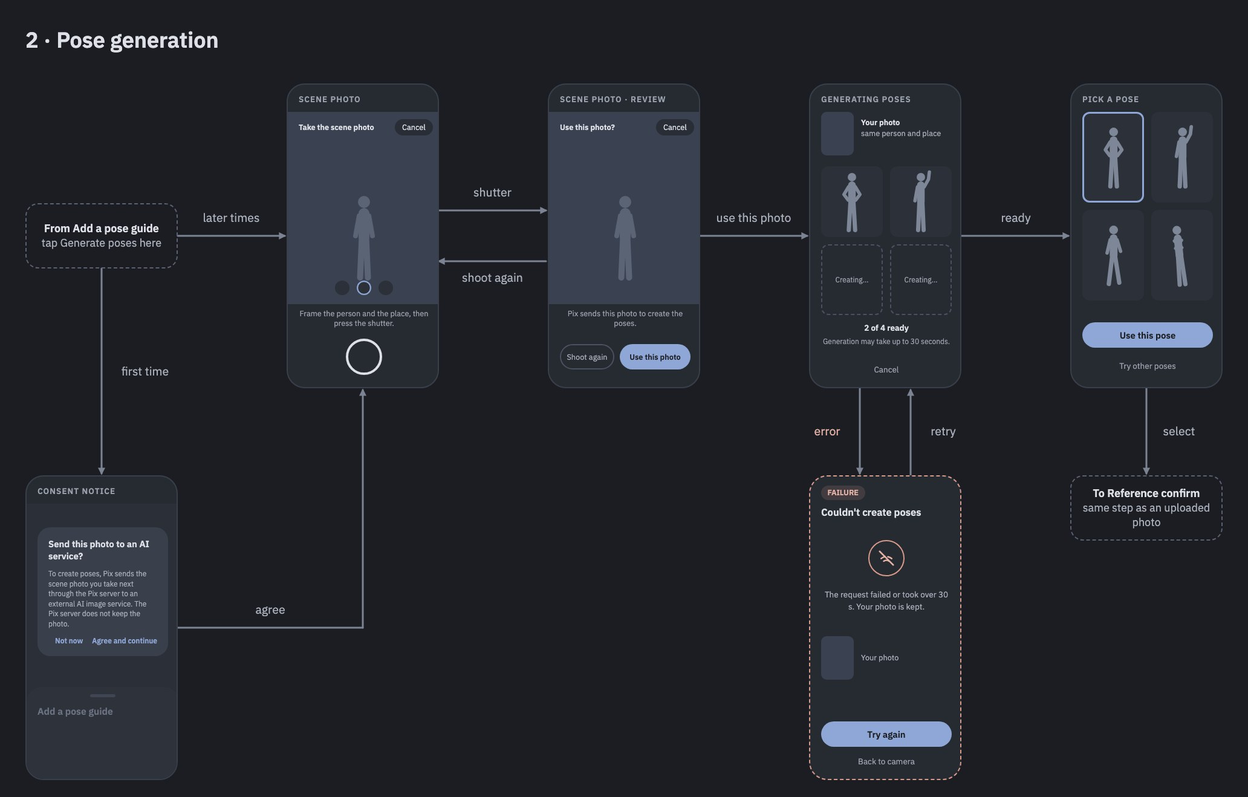
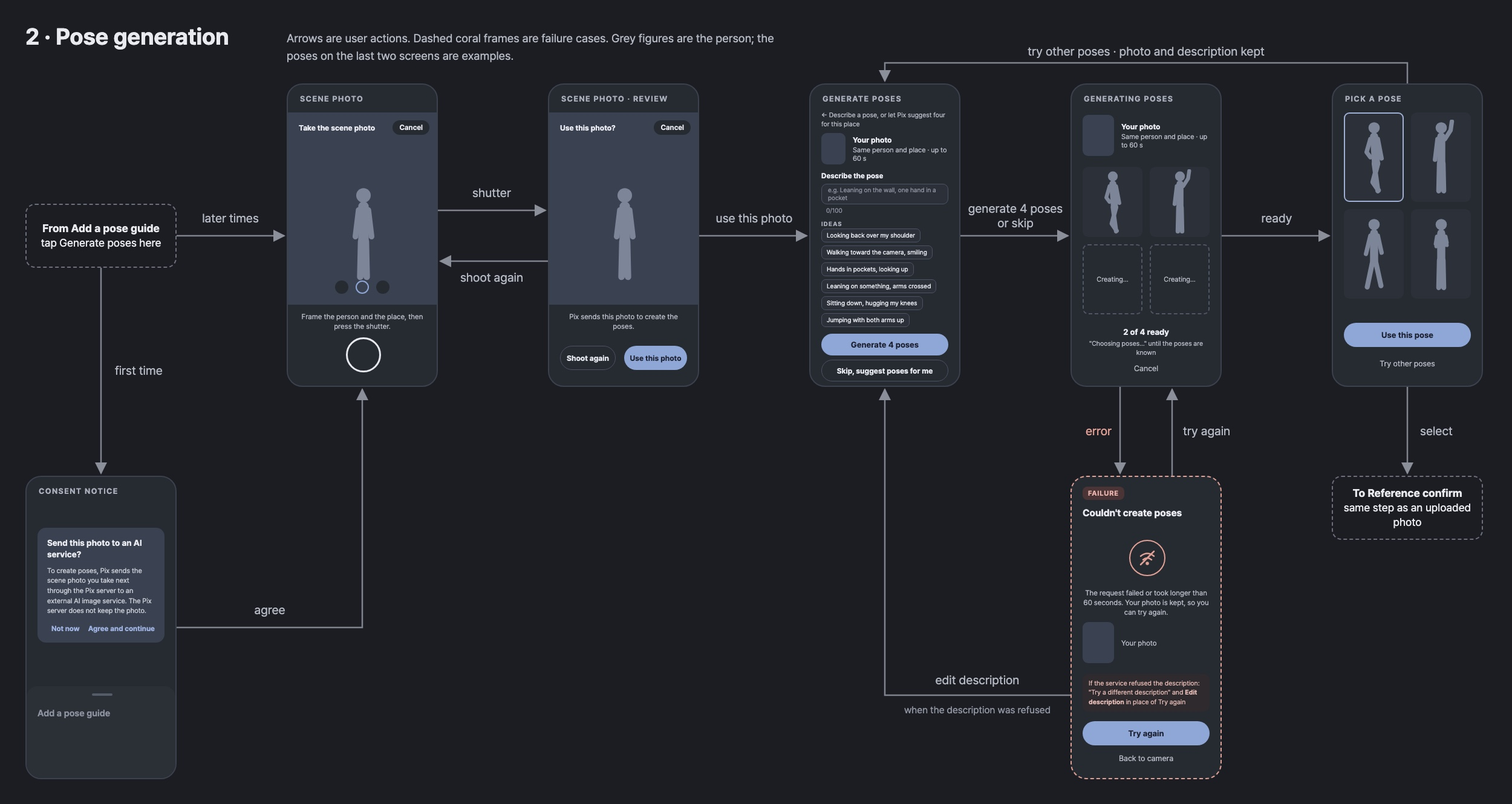
docs: redraw the Flow 2 wireframe with Generate poses (#53)
Figure 2 now has the Generate poses screen between Scene photo · Review
and Generating poses, the 60 s texts, Try other poses and Edit
description going back to Generate poses, and the refused-description
case on Couldn't create poses. The drawing is now kept as HTML in
wiki/images/flow2_pose_generation.html, rendered to the JPEG the page
uses, so it can be changed without redrawing it. Generate poses leaves
the screens still to be drawn (6.8).

diff --git a/wiki/images/flow2_pose_generation.html b/wiki/images/flow2_pose_generation.html
@@ -1,0 +1,269 @@
+<!DOCTYPE html>
+<html lang="en">
+<head>
+<meta charset="utf-8">
+<title>Pix · Wireflow 2: pose generation</title>
+<!--
+  Source of Figure 2 in the Requirements and Specifications (wiki/Requirements-and-Specifications.md, 6.3). The caption
+  and the screen table are in that page; this file holds only the drawing, on a 2500 × 1330 canvas.
+
+  To change the figure: edit this file, then render it over the image the page uses, for example on macOS:
+    "/Applications/Google Chrome.app/Contents/MacOS/Google Chrome" --headless=new --hide-scrollbars \
+      --force-device-scale-factor=1 --window-size=2500,1330 --screenshot=/tmp/flow2.png flow2_pose_generation.html
+    sips -s format jpeg -s formatOptions 92 /tmp/flow2.png --out flow2_pose_generation.jpg
+-->
+<style>
+  * { box-sizing: border-box; }
+  body { margin: 0; background: #1c1d22; }
+  .canvas { position: relative; width: 2500px; height: 1330px; background: #1c1d22; color: #e8eaf0; overflow: hidden;
+    font-family: "Pretendard", "IBM Plex Sans", "Helvetica Neue", Arial, sans-serif; }
+  .title { position: absolute; left: 42px; top: 38px; font-size: 38px; font-weight: 700; letter-spacing: -0.3px; }
+  .legend { position: absolute; left: 474px; top: 50px; width: 860px; font-size: 19px; line-height: 1.5; color: #b3b8c2; }
+
+  .phone { position: absolute; top: 138px; width: 250px; height: 502px; background: #262b31; border: 2px solid #3b414d;
+    border-radius: 26px; overflow: hidden; }
+  .phone.low { top: 787px; }
+  .phone.failure { border: 2px dashed #e3a196; }
+  .label { position: absolute; left: 20px; top: 16px; font-size: 13px; font-weight: 700; letter-spacing: 1.4px;
+    color: #a9afbb; }
+  .cam { position: absolute; left: 0; right: 0; top: 46px; height: 318px; background: #3a4151; }
+  .topbar { position: absolute; left: 18px; right: 12px; top: 13px; display: flex; justify-content: space-between;
+    align-items: center; font-size: 12.5px; font-weight: 700; }
+  .pill { background: #262b31; border-radius: 14px; padding: 5px 11px; font-size: 12px; font-weight: 600; }
+  .note { position: absolute; left: 18px; right: 18px; text-align: center; font-size: 12px; line-height: 1.35;
+    color: #b6bbc5; }
+  .btn { position: absolute; left: 18px; right: 18px; height: 40px; border-radius: 21px; display: flex;
+    align-items: center; justify-content: center; font-size: 13.5px; font-weight: 700; }
+  .btn.accent { background: #8fa7d7; color: #1c2030; }
+  .btn.outline { border: 1.5px solid #4c5363; color: #e3e6ec; }
+  .link { position: absolute; left: 0; right: 0; text-align: center; font-size: 13px; color: #b6bbc5; }
+  .shutter { position: absolute; left: 96px; top: 418px; width: 58px; height: 58px; border: 3px solid #e8eaf0;
+    border-radius: 50%; }
+  .dots { position: absolute; left: 0; right: 0; top: 330px; display: flex; justify-content: center; gap: 12px; }
+  .dots i { width: 22px; height: 22px; border-radius: 50%; background: #262b31; display: block; }
+  .dots i.on { background: transparent; border: 2.5px solid #8fa7d7; }
+  .figure { position: absolute; }
+
+  .photo-row { position: absolute; left: 18px; right: 18px; display: flex; align-items: center; gap: 12px; }
+  .thumb { width: 52px; height: 68px; border-radius: 9px; background: #3a4151; flex: none; }
+  .photo-row b { display: block; font-size: 12.5px; }
+  .photo-row span { display: block; font-size: 11.5px; color: #b6bbc5; margin-top: 2px; }
+  .slots { position: absolute; left: 18px; right: 18px; display: grid; grid-template-columns: 1fr 1fr; gap: 12px; }
+  .slot { height: 116px; border-radius: 9px; background: #2c3039; display: flex; align-items: center;
+    justify-content: center; font-size: 11.5px; color: #b6bbc5; }
+  .slot.creating { background: transparent; border: 2px dashed #4f5664; }
+  .slot.selected { outline: 2.5px solid #9fb0d4; outline-offset: -2.5px; }
+  .slots.pick .slot { height: 148px; }
+
+  .sub { position: absolute; left: 18px; right: 18px; font-size: 11px; line-height: 1.35; color: #b6bbc5; }
+  .field-label { position: absolute; left: 18px; font-size: 12px; font-weight: 700; }
+  .field { position: absolute; left: 18px; right: 18px; height: 34px; border-radius: 9px; border: 1.5px solid #4c5363;
+    background: #2c3039; font-size: 10.5px; color: #8d93a0; display: flex; align-items: center; padding: 0 10px; }
+  .counter { position: absolute; left: 26px; font-size: 10.5px; color: #8d93a0; }
+  .ideas-label { position: absolute; left: 18px; font-size: 10px; font-weight: 700; letter-spacing: 1.2px; color: #a9afbb; }
+  .chips { position: absolute; left: 18px; right: 18px; display: flex; flex-direction: column; align-items: flex-start;
+    gap: 5px; }
+  .chips span { font-size: 10.5px; border: 1.5px solid #4c5363; border-radius: 7px; padding: 4px 8px; background: #2c3039; }
+
+  .badge { position: absolute; left: 18px; top: 16px; background: #4a3436; color: #e9b3ab; font-size: 11.5px;
+    font-weight: 700; letter-spacing: 0.8px; border-radius: 8px; padding: 4px 9px; }
+  .fail-title { position: absolute; left: 18px; top: 50px; font-size: 16px; font-weight: 700; }
+  .fail-icon { position: absolute; left: 95px; top: 104px; width: 60px; height: 60px; border: 2.5px solid #e3a196;
+    border-radius: 50%; }
+  .refused { position: absolute; left: 18px; right: 18px; border-radius: 9px; background: #2f2a2e; color: #e2b9b2;
+    font-size: 11px; line-height: 1.4; padding: 8px 10px; }
+
+  .dialog { position: absolute; left: 18px; right: 18px; top: 84px; border-radius: 14px; background: #3a4151;
+    padding: 16px; }
+  .dialog b { display: block; font-size: 14px; line-height: 1.35; }
+  .dialog p { margin: 9px 0 14px; font-size: 11.5px; line-height: 1.45; color: #c7cbd4; }
+  .dialog .actions { display: flex; justify-content: flex-end; gap: 14px; font-size: 12px; font-weight: 700;
+    color: #9fb4e2; }
+  .sheet { position: absolute; left: 0; right: 0; bottom: 0; height: 152px; background: #2b3037;
+    border-top-left-radius: 18px; border-top-right-radius: 18px; }
+  .sheet i { position: absolute; left: 108px; top: 12px; width: 34px; height: 4px; border-radius: 2px; background: #555c69; }
+  .sheet span { position: absolute; left: 18px; top: 36px; font-size: 15px; color: #8d93a0; font-weight: 600; }
+
+  .box { position: absolute; width: 250px; border: 2px dashed #6b707c; border-radius: 16px; display: flex;
+    flex-direction: column; align-items: center; justify-content: center; text-align: center; font-size: 18px;
+    line-height: 1.35; color: #e8eaf0; padding: 12px; }
+  .box b { font-weight: 700; }
+  svg.arrows { position: absolute; left: 0; top: 0; }
+  svg.arrows text { font-size: 20px; fill: #b3b8c2; font-family: inherit; }
+  svg.arrows text.error { fill: #e3a196; }
+  svg.arrows text.small { font-size: 16px; fill: #8f95a1; }
+</style>
+</head>
+<body>
+<!-- Figures: grey people in the poses of the drawing, reused with <use>. -->
+<svg width="0" height="0" style="position:absolute">
+  <defs>
+    <g id="head"><circle cx="30" cy="13" r="9" fill="#7d8699"/></g>
+    <symbol id="fig-stand" viewBox="0 0 60 120"><use href="#head"/>
+      <g stroke="#7d8699" stroke-linecap="round" fill="none"><path d="M30 27 V70" stroke-width="13"/>
+      <path d="M24 31 L20 64 M36 31 L40 64" stroke-width="7"/><path d="M27 70 L26 114 M33 70 L34 114" stroke-width="8"/></g></symbol>
+    <symbol id="fig-hips" viewBox="0 0 60 120"><use href="#head"/>
+      <g stroke="#7d8699" stroke-linecap="round" stroke-linejoin="round" fill="none"><path d="M30 27 V70" stroke-width="13"/>
+      <path d="M24 31 L14 47 L25 60 M36 31 L46 47 L35 60" stroke-width="7"/><path d="M27 70 L26 114 M33 70 L34 114" stroke-width="8"/></g></symbol>
+    <symbol id="fig-wave" viewBox="0 0 60 120"><use href="#head"/>
+      <g stroke="#7d8699" stroke-linecap="round" stroke-linejoin="round" fill="none"><path d="M30 27 V70" stroke-width="13"/>
+      <path d="M24 31 L20 64 M36 31 L45 17 L47 3" stroke-width="7"/><path d="M27 70 L26 114 M33 70 L34 114" stroke-width="8"/></g></symbol>
+    <symbol id="fig-walk" viewBox="0 0 60 120"><use href="#head"/>
+      <g stroke="#7d8699" stroke-linecap="round" stroke-linejoin="round" fill="none"><path d="M30 27 V70" stroke-width="13"/>
+      <path d="M24 31 L17 60 M36 31 L42 58" stroke-width="7"/><path d="M28 70 L19 113 M32 70 L41 111" stroke-width="8"/></g></symbol>
+    <symbol id="fig-cross" viewBox="0 0 60 120"><use href="#head"/>
+      <g stroke="#7d8699" stroke-linecap="round" stroke-linejoin="round" fill="none"><path d="M30 27 V70" stroke-width="13"/>
+      <path d="M23 32 L21 44 L39 46 M37 32 L39 42 L22 48" stroke-width="6"/><path d="M27 70 L26 114 M33 70 L34 114" stroke-width="8"/></g></symbol>
+    <symbol id="fig-lean" viewBox="0 0 60 120"><use href="#head"/>
+      <g stroke="#7d8699" stroke-linecap="round" stroke-linejoin="round" fill="none"><path d="M30 27 L33 70" stroke-width="13"/>
+      <path d="M24 31 L18 52 L24 60 M36 31 L42 62" stroke-width="7"/><path d="M30 70 L36 114 M36 70 L28 100 L37 113" stroke-width="8"/></g></symbol>
+  </defs>
+</svg>
+
+<div class="canvas">
+  <div class="title">2 · Pose generation</div>
+  <div class="legend">Arrows are user actions. Dashed coral frames are failure cases. Grey figures are the person; the
+    poses on the last two screens are examples.</div>
+
+  <!-- Entry -->
+  <div class="box" style="left:42px; top:337px; height:106px"><b>From Add a pose guide</b>tap Generate poses here</div>
+
+  <!-- Scene photo -->
+  <div class="phone" style="left:474px">
+    <div class="label">SCENE PHOTO</div>
+    <div class="cam">
+      <div class="topbar"><span>Take the scene photo</span><span class="pill">Cancel</span></div>
+      <svg class="figure" style="left:85px; top:120px" width="80" height="160"><use href="#fig-stand"/></svg>
+      <div class="dots" style="top:278px"><i></i><i class="on"></i><i></i></div>
+    </div>
+    <div class="note" style="top:376px">Frame the person and the place, then press the shutter.</div>
+    <div class="shutter"></div>
+  </div>
+
+  <!-- Scene photo · Review -->
+  <div class="phone" style="left:906px">
+    <div class="label">SCENE PHOTO · REVIEW</div>
+    <div class="cam">
+      <div class="topbar"><span>Use this photo?</span><span class="pill">Cancel</span></div>
+      <svg class="figure" style="left:85px; top:120px" width="80" height="160"><use href="#fig-stand"/></svg>
+    </div>
+    <div class="note" style="top:376px">Pix sends this photo to create the poses.</div>
+    <div class="btn outline" style="top:432px; right:136px; height:40px; font-size:12.5px">Shoot again</div>
+    <div class="btn accent" style="top:432px; left:124px; font-size:12.5px">Use this photo</div>
+  </div>
+
+  <!-- Generate poses (It 2) -->
+  <div class="phone" style="left:1338px">
+    <div class="label">GENERATE POSES</div>
+    <div class="sub" style="top:44px">← Describe a pose, or let Pix suggest four for this place</div>
+    <div class="photo-row" style="top:80px"><div class="thumb" style="width:40px; height:52px"></div>
+      <div><b>Your photo</b><span>Same person and place · up to 60 s</span></div></div>
+    <div class="field-label" style="top:144px">Describe the pose</div>
+    <div class="field" style="top:164px">e.g. Leaning on the wall, one hand in a pocket</div>
+    <div class="counter" style="top:202px">0/100</div>
+    <div class="ideas-label" style="top:224px">IDEAS</div>
+    <div class="chips" style="top:238px">
+      <span>Looking back over my shoulder</span><span>Walking toward the camera, smiling</span>
+      <span>Hands in pockets, looking up</span><span>Leaning on something, arms crossed</span>
+      <span>Sitting down, hugging my knees</span><span>Jumping with both arms up</span>
+    </div>
+    <div class="btn accent" style="top:412px; height:36px">Generate 4 poses</div>
+    <div class="btn outline" style="top:455px; height:36px; font-size:12.5px">Skip, suggest poses for me</div>
+  </div>
+
+  <!-- Generating poses -->
+  <div class="phone" style="left:1770px">
+    <div class="label">GENERATING POSES</div>
+    <div class="photo-row" style="top:50px"><div class="thumb"></div>
+      <div><b>Your photo</b><span>Same person and place · up to 60 s</span></div></div>
+    <div class="slots" style="top:136px">
+      <div class="slot"><svg width="54" height="108"><use href="#fig-lean"/></svg></div>
+      <div class="slot"><svg width="54" height="108"><use href="#fig-wave"/></svg></div>
+      <div class="slot creating">Creating…</div>
+      <div class="slot creating">Creating…</div>
+    </div>
+    <div class="note" style="top:400px; font-size:13.5px; font-weight:700; color:#e8eaf0">2 of 4 ready</div>
+    <div class="note" style="top:422px; font-size:11px">"Choosing poses…" until the poses are known</div>
+    <div class="link" style="top:462px">Cancel</div>
+  </div>
+
+  <!-- Pick a pose -->
+  <div class="phone" style="left:2202px">
+    <div class="label">PICK A POSE</div>
+    <div class="slots pick" style="top:46px">
+      <div class="slot selected"><svg width="62" height="124"><use href="#fig-lean"/></svg></div>
+      <div class="slot"><svg width="62" height="124"><use href="#fig-wave"/></svg></div>
+      <div class="slot"><svg width="62" height="124"><use href="#fig-walk"/></svg></div>
+      <div class="slot"><svg width="62" height="124"><use href="#fig-cross"/></svg></div>
+    </div>
+    <div class="btn accent" style="top:394px">Use this pose</div>
+    <div class="link" style="top:454px">Try other poses</div>
+  </div>
+
+  <!-- Consent notice -->
+  <div class="phone low" style="left:42px">
+    <div class="label">CONSENT NOTICE</div>
+    <div class="dialog"><b>Send this photo to an AI service?</b>
+      <p>To create poses, Pix sends the scene photo you take next through the Pix server to an external AI image
+        service. The Pix server does not keep the photo.</p>
+      <div class="actions"><span>Not now</span><span>Agree and continue</span></div></div>
+    <div class="sheet"><i></i><span>Add a pose guide</span></div>
+  </div>
+
+  <!-- Couldn't create poses -->
+  <div class="phone low failure" style="left:1770px">
+    <div class="badge">FAILURE</div>
+    <div class="fail-title">Couldn't create poses</div>
+    <div class="fail-icon"><svg width="56" height="56" viewBox="0 0 56 56"><g stroke="#e3a196" stroke-width="2.5"
+      stroke-linecap="round" fill="none"><path d="M17 25 Q28 16 39 25 M21 31 Q28 25 35 31"/><path d="M17 39 L39 17"/>
+      <circle cx="28" cy="37" r="1.5" fill="#e3a196"/></g></svg></div>
+    <div class="note" style="top:184px">The request failed or took longer than 60 seconds. Your photo is kept, so you
+      can try again.</div>
+    <div class="photo-row" style="top:240px"><div class="thumb"></div><div><span style="font-size:12px">Your photo</span></div></div>
+    <div class="refused" style="top:326px">If the service refused the description: "Try a different description" and
+      <b>Edit description</b> in place of Try again</div>
+    <div class="btn accent" style="top:404px">Try again</div>
+    <div class="link" style="top:458px">Back to camera</div>
+  </div>
+
+  <!-- To Reference confirm -->
+  <div class="box" style="left:2202px; top:787px; height:106px"><b>To Reference confirm</b>same step as an uploaded photo</div>
+
+  <!-- Arrows -->
+  <svg class="arrows" width="2500" height="1330" viewBox="0 0 2500 1330">
+    <defs><marker id="ah" viewBox="0 0 10 10" refX="9" refY="5" markerWidth="8" markerHeight="8" orient="auto-start-reverse">
+      <path d="M0,0 L10,5 L0,10 z" fill="#8a8f9a"/></marker></defs>
+    <g stroke="#7f848f" stroke-width="2.5" fill="none" marker-end="url(#ah)">
+      <path d="M292 390 H470"/>
+      <path d="M167 443 V783"/>
+      <path d="M292 1038 H599 V644"/>
+      <path d="M724 348 H902"/>
+      <path d="M906 432 H728"/>
+      <path d="M1156 390 H1334"/>
+      <path d="M1588 390 H1766"/>
+      <path d="M2020 390 H2198"/>
+      <path d="M1852 640 V783"/>
+      <path d="M1938 787 V644"/>
+      <path d="M1770 1150 H1463 V644"/>
+      <path d="M2327 138 V104 H1463 V134"/>
+      <path d="M2327 640 V783"/>
+    </g>
+    <text x="381" y="368" text-anchor="middle">later times</text>
+    <text x="190" y="620">first time</text>
+    <text x="446" y="1016" text-anchor="middle">agree</text>
+    <text x="813" y="326" text-anchor="middle">shutter</text>
+    <text x="813" y="466" text-anchor="middle">shoot again</text>
+    <text x="1247" y="368" text-anchor="middle">use this photo</text>
+    <text x="1679" y="352" text-anchor="middle">generate 4 poses</text>
+    <text x="1679" y="376" text-anchor="middle">or skip</text>
+    <text x="2111" y="368" text-anchor="middle">ready</text>
+    <text x="1838" y="720" text-anchor="end" class="error">error</text>
+    <text x="1956" y="720">try again</text>
+    <text x="1616" y="1132" text-anchor="middle">edit description</text>
+    <text x="1616" y="1180" text-anchor="middle" class="small">when the description was refused</text>
+    <text x="1895" y="92" text-anchor="middle">try other poses · photo and description kept</text>
+    <text x="2348" y="720">select</text>
+  </svg>
+</div>
+</body>
+</html>

diff --git a/wiki/Requirements-and-Specifications.md b/wiki/Requirements-and-Specifications.md
@@ -16,7 +16,7 @@
 | 1.3 | 2026-10-15 | Sign-up and sign-in with a Pix ID and a password, next to Google (decided 2026-10-15, Iter2-P8): FR-5.2 revised, with the original kept; the password rules (FR-5.11); adding Google to a password account (FR-5.12); a Google sign-in that no account uses asks whether the person already has a Pix account (FR-5.13); adding a password to a Google account (FR-5.14); US-6 gains four cases. There is no email and no password reset. NFR-15 adds a limit on wrong room codes per network address, and the assumptions a daily limit on poses over all users. 6.8 gains an *Account* screen to be drawn. NFR-13 adds the password hash to what the server stores, and NFR-14 says that passwords cross plain HTTP, that login attempts are not limited for now, and how the 15-minute access tokens and rotating refresh tokens work. F5, the Iteration 2 summary, the Friends screen, 6.8, and the assumptions follow. |
 | 1.4 | 2026-10-15 | Camera controls as built (Iter2-P10, #51). FR-1.13 says how each ratio is cut from the sensor. 6.2 places the flash and aspect-ratio buttons in the top bar and the brightness slider behind a button beside the zoom readout, and the last ratio is kept for the next time. |
 | 1.5 | 2026-10-16 | Guide controls as built (Iter2-P11, #52). FR-3.3 is revised, with the original kept: the size limits are 21–210 % of the frame height for every start, because the guide now starts at the person's size in the reference (FR-3.1). FR-3.6 and 6.2: there is no *Replace* button; *Guide* asks to replace a guide that is on the camera. FR-3.9 and 6.2: a tap on the reference thumbnail enlarges it and another tap makes it small, and a drag moves it to another corner. *Reference confirm* shows the outline on a dark neutral card (6.2). US-3 follows. |
-| 1.6 | 2026-10-21 | Poses without a description are suggested for the scene (Iter2-P12, #53). FR-4.4 is revised, with the original kept: without a description the Pix server suggests four poses for the scene, and the predefined poses are used only when it cannot. *Skip, use the preset poses* becomes *Skip, suggest poses for me* (FR-4.8, US-5, 6.3, 6.8), Generating poses says "Choosing poses…" until the suggested poses are known (6.3), and FR-4.8 says that the server's prompt may frame the person closer. *Try other poses* goes back to *Generate poses* with the scene photo and the description kept instead of requesting a new set at once (FR-4.6, revised with the original kept; US-4, 6.3). With a description, one candidate follows it as written and three follow variations of it that the Pix server writes for the scene, so the four differ (FR-4.8, US-5 revised with the original kept, 6.3). The glossary gains *Suggested pose* and *Pose variation*. Pose requests stop at 60 s instead of 30 s, while the targets of 20 s and 30 s stay (NFR-4, FR-4.5, FR-4.7, US-4, 6.3; revised with the originals kept). |
+| 1.6 | 2026-10-21 | Poses without a description are suggested for the scene (Iter2-P12, #53). FR-4.4 is revised, with the original kept: without a description the Pix server suggests four poses for the scene, and the predefined poses are used only when it cannot. *Skip, use the preset poses* becomes *Skip, suggest poses for me* (FR-4.8, US-5, 6.3, 6.8), Generating poses says "Choosing poses…" until the suggested poses are known (6.3), and FR-4.8 says that the server's prompt may frame the person closer. *Try other poses* goes back to *Generate poses* with the scene photo and the description kept instead of requesting a new set at once (FR-4.6, revised with the original kept; US-4, 6.3). With a description, one candidate follows it as written and three follow variations of it that the Pix server writes for the scene, so the four differ (FR-4.8, US-5 revised with the original kept, 6.3). The glossary gains *Suggested pose* and *Pose variation*. Pose requests stop at 60 s instead of 30 s, while the targets of 20 s and 30 s stay (NFR-4, FR-4.5, FR-4.7, US-4, 6.3; revised with the originals kept). Figure 2 now includes Generate poses, which leaves 6.8. |
 
 Items marked **TBD** need a team decision.
 
@@ -550,7 +550,7 @@ In the tables below, **Input → result** lists what the user can do on the scre
 
 ![Wireflow 2: pose generation](images/flow2_pose_generation.jpg)
 
-*Figure 2. Consent notice (the first time) → Scene photo → Scene photo · Review → Generating poses → Pick a pose → Reference confirm, with the "Couldn't create poses" failure. The Scene photo frame draws zoom as in Figure 1, before the zoom slider, and the Iteration 2 Generate poses screen, accepted on 2026-10-09, is not in the wireflow yet (6.8); the table below defines the current controls.*
+*Figure 2. Consent notice (the first time) → Scene photo → Scene photo · Review → Generate poses → Generating poses → Pick a pose → Reference confirm, with the "Couldn't create poses" failure. *Try other poses* goes back to Generate poses with the photo and the description kept, and so does *Edit description* when the service refused the description. The Scene photo frame draws zoom as in Figure 1, before the zoom slider (6.8); the table below defines the current controls. Redrawn on 2026-10-21 from `images/flow2_pose_generation.html`.*
 
 | Screen | Shows | Input → result | Not allowed / failure |
 |---|---|---|---|
@@ -624,7 +624,6 @@ These screens follow from the requirements above but are not yet in the wirefram
 | Invitation no longer available | Shown when an expired or cancelled invitation is opened. | FR-6.4 |
 | Camera and Subject view (update) | Draw the zoom slider and actual hardware endpoint labels in Flows 1, 2, 5, and 6; remove *Take photo* from Subject view; add the aspect-ratio control, brightness slider, and flash button; draw the outline-only guide, the reference thumbnail in its corners, *Hide* / *Show*, the replace prompt of *Add a pose guide*, and *Save guide*; the guide-edit mode toggle in place of the zoom slider (It 2). | FR-1.3, FR-1.11–1.13, FR-3.6, FR-3.8, FR-3.9, FR-7.1–7.3 |
 | Reference confirm (update) | Remove the Cutout/Outline switch; show the outline style chosen in Iter2-P3. | FR-2.2, FR-2.3 |
-| Generate poses | The screen accepted on 2026-10-09: scene thumbnail, idea chips, 100-character field with a counter, *Generate 4 poses*, *Skip, use the preset poses* (built on 2026-10-21 as *Skip, suggest poses for me*). Add the image to Flow 2. | FR-4.8 |
 | Invite sent (update) | *Share invite link* and *Copy link*; the remote-control toggle only if it is built. | FR-6.1, FR-6.2, FR-7.5 |
 | Subject view, control blocked | Disabled remote controls with the reason. Could item. | FR-7.5 |
 | Saved guides | *Save guide* on Camera + guide; the saved list on Add a pose guide. | FR-3.8 |

diff --git a/CLAUDE.md b/CLAUDE.md
@@ -5,7 +5,7 @@
 - Always refer to the [design documentation](wiki/Design-Documentation.md), [requirements and specifications](wiki/Requirements-and-Specifications.md), and [testing documentation](wiki/Testing-Documentation.md) for detailed information on the project specifications, design considerations, and how the project is tested.
 - These documents may be updated over time, so check them regularly for the latest information. If any text referencing these documents is outdated, update it to reflect the current state of the documentation.
 - The `wiki/` folder is the source of the GitHub wiki. Edit the pages there, through a pull request like any other change; the `wiki-sync` workflow mirrors the folder to the wiki on every push to `dev`, deletions included, and overwrites anything edited on GitHub directly. Every file in `wiki/` becomes a wiki page or asset, so keep notes and READMEs out of it.
-- The two architecture figures of the design page, `wiki/images/design_architecture.png` and `wiki/images/design_target_architecture.png`, are drawn as SVG in `wiki/images/design_architecture.html`. Change the drawing there and render the PNG again as that file's header comment says; do not edit a PNG alone.
+- The two architecture figures of the design page, `wiki/images/design_architecture.png` and `wiki/images/design_target_architecture.png`, are drawn as SVG in `wiki/images/design_architecture.html`, and the requirements page's Figure 2, `wiki/images/flow2_pose_generation.jpg`, is drawn in `wiki/images/flow2_pose_generation.html`. Change the drawing there and render the image again as that file's header comment says; do not edit an image alone.
 - The [testing documentation](wiki/Testing-Documentation.md) is the single record of how Pix is tested. Before writing or changing tests, read its rules (section 1.3), the frameworks, fakes, and commands (2.1), and the partitions and techniques (2.1.6), and follow them. Every task that builds a feature or adds or changes tests updates that page's plan in the same PR as the code: how the change is tested (the tests and their partitions, frameworks, fakes, commands, devices, and the integration script or NFR it covers) in sections 1 and 2.1, with a revision-history row with the next minor version (1.1, 1.2, …, 1.10). Results (test counts, coverage against the targets, measured numbers, failures with their reason) and the Test Log are filled in once, at the close of each iteration, not in each PR. A submitted plan item is never rewritten silently; a changed goal is added next to the original with the reason.
 - Do not make git commits or pushes to the repository on your own. Only make commits and pushes when instructed to do so by a human.
 - Every source file that AI wrote or substantially changed (Kotlin, Gradle scripts, Python, workflow YAML) starts with the marker `AI-generated with <tool>, <YYYY-MM-DD>, reviewed by <name>` as its first line, in the file's line-comment syntax (`//` or `#`), before any docstring or import. Name every tool used (for example `Claude Code`, `ChatGPT Codex`, or `ChatGPT Codex and Claude Code`), the date of the last AI change, and the team member who reviewed the result. One marker line per file, not per function or class, and only in source files, never in documentation, resources, or configuration data. Add or update the marker in the same PR as the code. The reviewer is a human; never fill in a name you were not given.
